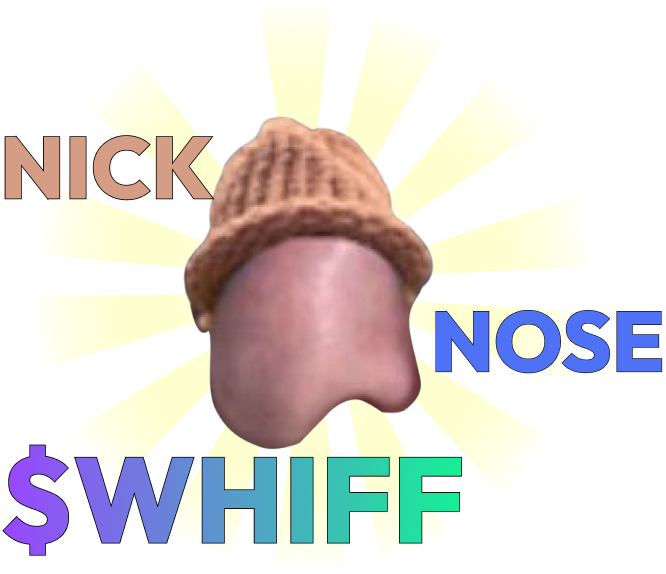
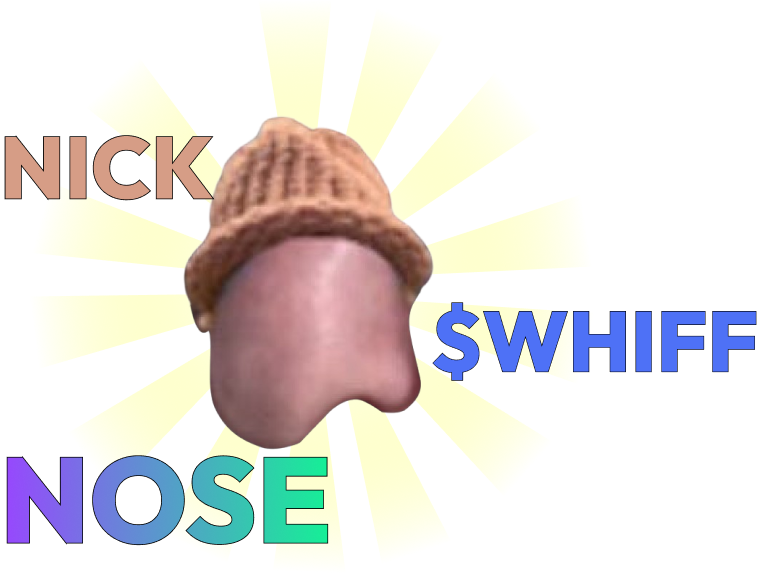
UPDATE

diff --git a/index.html b/index.html
@@ -4,8 +4,8 @@
   <meta charset="UTF-8">
   <meta name="viewport" content="width=device-width, initial-scale=1.0">
   <link href="https://cdn.jsdelivr.net/npm/tailwindcss@2.2.19/dist/tailwind.min.css" rel="stylesheet">
-  <title>Nick Nose Whiff</title>
-  <link rel="stylesheet" href="/dist/style.css">
+  <title>Nick Wif Nose</title>
+  <link rel="stylesheet" href="/css/style.css">
   <link rel="preconnect" href="https://fonts.googleapis.com">
   <link rel="preconnect" href="https://fonts.gstatic.com" crossorigin>
   <link rel="stylesheet" href="https://fonts.googleapis.com/css2?family=Jura:wght@400;700&display=swap">
@@ -43,11 +43,11 @@
               <div class="w-80 sm:min-w-full md:my-10 flex items-center justify-center">
                 <img src="/assets/hero-img.png" alt="">
               </div>
-              <h1 class="my-4 text:xs lg:text-4xl font-semibold" style="font-family: 'Jura', sans-serif;">
+              <!-- <h1 class="my-4 text:xs lg:text-4xl font-semibold" style="font-family: 'Jura', sans-serif;">
                   Just a $PUP Travelling The World!
-              </h1>
+              </h1> -->
               <p class="my-4 text-xs sm:text-xl font-bold" style="font-family: 'Jura', sans-serif;">
-                  CA: A3oxjeMiPgLNwb7CjzMFGRJTXVehPRvf1sWE1ysff73m
+                  CA: Cv52D1qtS8LAHs7H1ho1vAtBeDFTymrSwgcWPRC2rmHt
               </p>
             </div>
 
@@ -91,6 +91,16 @@
         </div>
       </div>
     </section>
+
+    <section class="min-h-full flex justify-center font-semibold">
+        <div>
+            <h1 class="text-4xl md:text-5xl lg:text-7xl text-center font-bold font mt-20 mb-10 text-white">
+                NICK WIF NOSE GALLERY
+              </h1>
+            <img src="/assets/bg.png" alt="">
+        </div>
+      </section>
+    
     <section class="px-12">
         <script async src="https://platform.twitter.com/widgets.js" charset="utf-8"></script>  
         <h1 class="text-4xl md:text-5xl lg:text-7xl text-center font-bold font mt-20 mb-10 text-white">
@@ -127,7 +137,7 @@
             <img src="/assets/burnt.png" alt="">
             <h1 class="text-xl text-center">
               <a class="cursor-pointer" href="https://solscan.io/tx/49Dc4SBiuPhHrSQgpuRBTKafcMN3ErUNA5xijfWzx3F3FyjnmqhkGDV7K3UC7czfjVcWj2mgSPsga19C8uWe5VGd" target="_blank">
-                liquidity burnt</a>
+                Liquidity Burnt</a>
             </h1>
           </div>
           <div>
@@ -145,8 +155,8 @@
       </h1>
       <div class="flex flex-col justify-center items-center text-center">
         <img class="w-92" src="/assets/disclaimer.png" alt="disclaimer">
-        <p>
-          $PUP functions as a community-driven memecoin with no 
+        <p class="text-xl font-semibold">
+          $WHIFF functions as a community-driven memecoin with no 
           inherent utility or anticipated value. Its primary goal 
           is to bring enjoyment to the Solana community and contribute 
           to the growth of its ecosystem.
@@ -181,7 +191,7 @@
             <img class="" src="/assets/logo-footer.png" alt="logo-footer"> 
           </div>
           <p class="py-2">
-            Contract Address: A3oxjeMiPgLNwb7CjzMFGRJTXVehPRvf1sWE1ysff73m 
+            Contract Address: Cv52D1qtS8LAHs7H1ho1vAtBeDFTymrSwgcWPRC2rmHt
           </p> 
           <p> © 2024 Official Pup ON Sol. Powered by @dev </p>
         </div>
@@ -198,5 +208,6 @@
         </div>       
       </div>
     </footer>
+    <script src="/js/script.js"></script>
 </body>
 </html>

diff --git a/css/style.css b/css/style.css
@@ -1,0 +1,3 @@
+html {
+    cursor: url('/assets/nose.png'), auto;
+}
